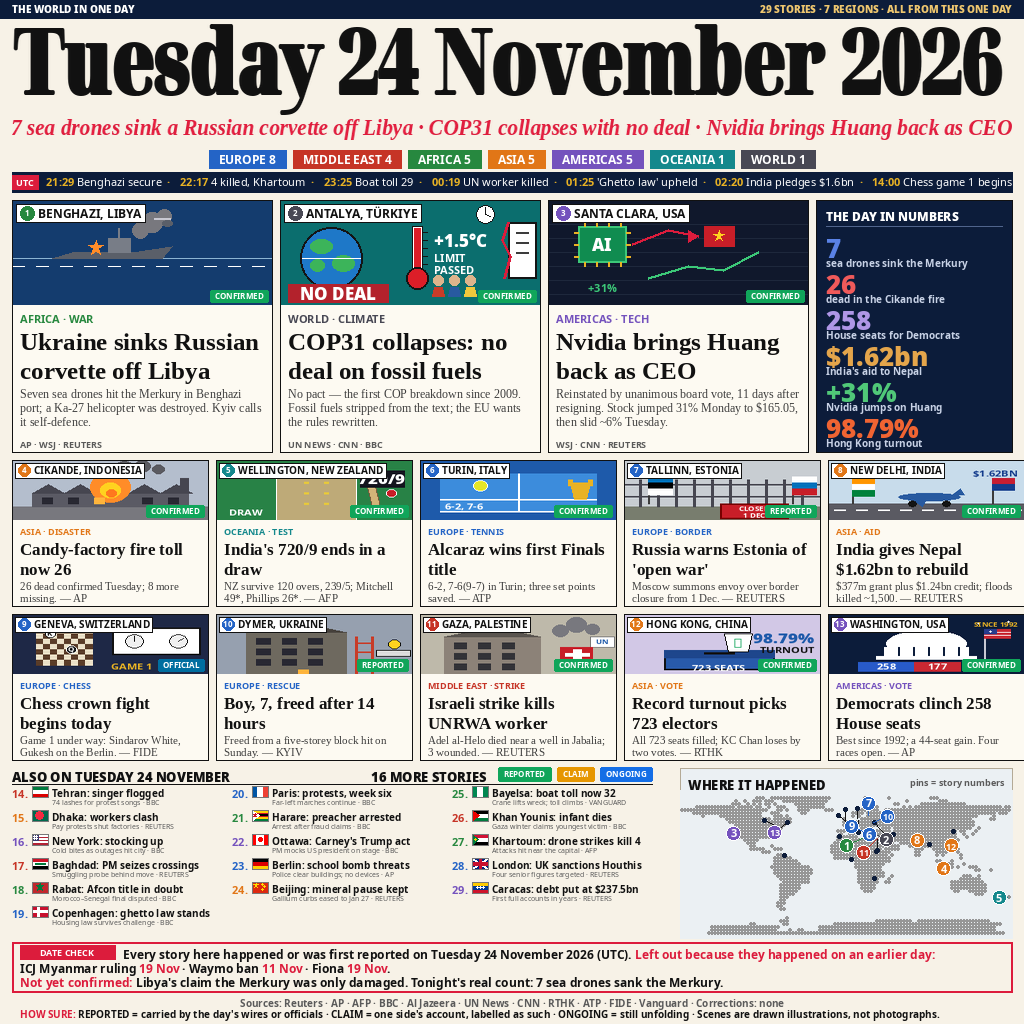
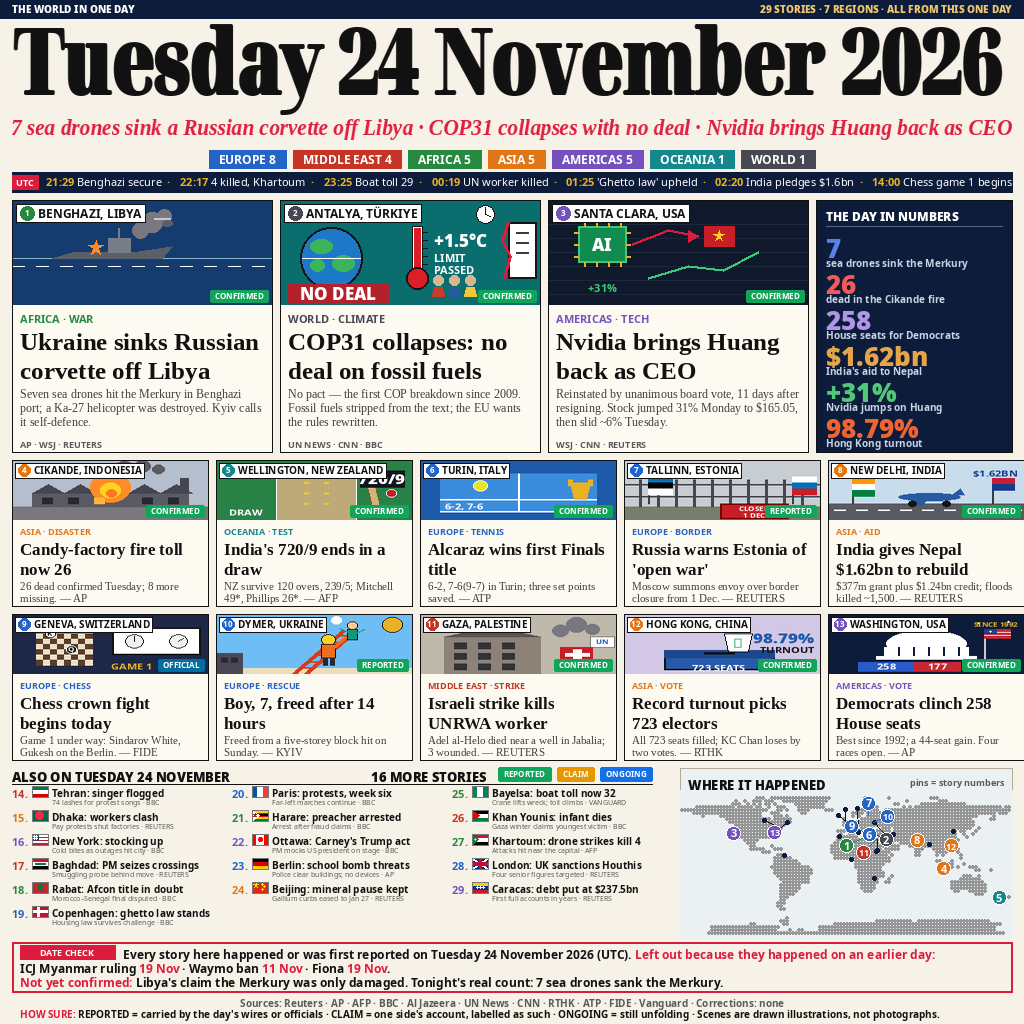
news-image-20261124 v3.2: story #10 scene redrawn as a rescue, distinct from #11

Changed region(s): [[0.1875, 0.5938, 0.4062, 0.6562]]

diff --git a/draw.py b/draw.py
@@ -694,21 +694,35 @@ def _scene_chess(g, w, h):
 
 
 def _scene_rescue(g, w, h):
-    # Boy freed after 14 hours in Dymer: a damaged block, a ladder
-    # against it, a stretcher below, a rescuer's helmet.
-    _rect(g, 0, 0, w, h, (150, 160, 175))
-    _rect(g, 30, 24, 130, h, (110, 105, 95))
-    for wy in (32, 46, 60):
-        for wx in (40, 66, 92):
-            _rect(g, wx, wy, wx + 14, wy + 8, (40, 40, 50))
-    _rect(g, 82, 74, 92, 82, (255, 180, 60))
-    _poly(g, [(30, 24), (80, 10), (130, 24)], (70, 65, 60))
-    _line(g, [(140, 30), (140, h)], (200, 60, 40), 3)
-    _line(g, [(156, 30), (156, h)], (200, 60, 40), 3)
-    for ry in range(38, h - 4, 12):
-        _line(g, [(140, ry), (156, ry)], (200, 60, 40), 2)
-    _rect(g, 160, 48, 194, 56, (220, 220, 220), out=INK)
-    _disc(g, 178, 40, 6, (255, 210, 31), out=INK)
+    # Boy freed after 14 hours in Dymer: a RESCUE, not a building.
+    # Bright blue sky and a big red ladder are the focus; a rescuer
+    # in orange with a yellow helmet reaches a child at the top.
+    # The damaged block is only a small dark silhouette at the
+    # left edge, so the scene reads nothing like the grey destroyed
+    # building of the strike scene (#11).
+    _rect(g, 0, 0, w, h, (110, 190, 245))
+    _disc(g, 176, 14, 10, GOLD, out=INK)
+    _disc(g, 28, 10, 6, "white")
+    _disc(g, 36, 12, 5, "white")
+    _disc(g, 120, 8, 5, "white")
+    _rect(g, 0, 72, w, h, (235, 220, 190))
+    _rect(g, 0, 52, 26, h, (75, 72, 85))
+    _rect(g, 5, 58, 11, 64, (40, 40, 50))
+    _rect(g, 15, 58, 21, 64, (40, 40, 50))
+    _line(g, [(78, 80), (128, 22)], (215, 60, 25), 4)
+    _line(g, [(90, 80), (140, 22)], (215, 60, 25), 4)
+    for x0, x1, ry in ((86, 98, 71), (93, 105, 63), (100, 112, 54),
+                       (108, 120, 45), (115, 127, 37), (123, 135, 28)):
+        _line(g, [(x0, ry), (x1, ry)], (215, 60, 25), 2)
+    _disc(g, 112, 34, 7, (255, 210, 31), out=INK)
+    _rect(g, 105, 40, 119, 58, (240, 110, 30), out=INK)
+    _rect(g, 107, 58, 111, 68, (40, 40, 50))
+    _rect(g, 114, 58, 118, 68, (40, 40, 50))
+    _line(g, [(118, 44), (130, 30)], (240, 110, 30), 3)
+    _disc(g, 136, 15, 5, (255, 200, 150), out=INK)
+    _rect(g, 131, 20, 141, 34, (20, 150, 120), out=INK)
+    _line(g, [(131, 24), (124, 20)], (20, 150, 120), 2)
+    _line(g, [(141, 24), (148, 20)], (20, 150, 120), 2)
 
 
 def _scene_strike(g, w, h):
